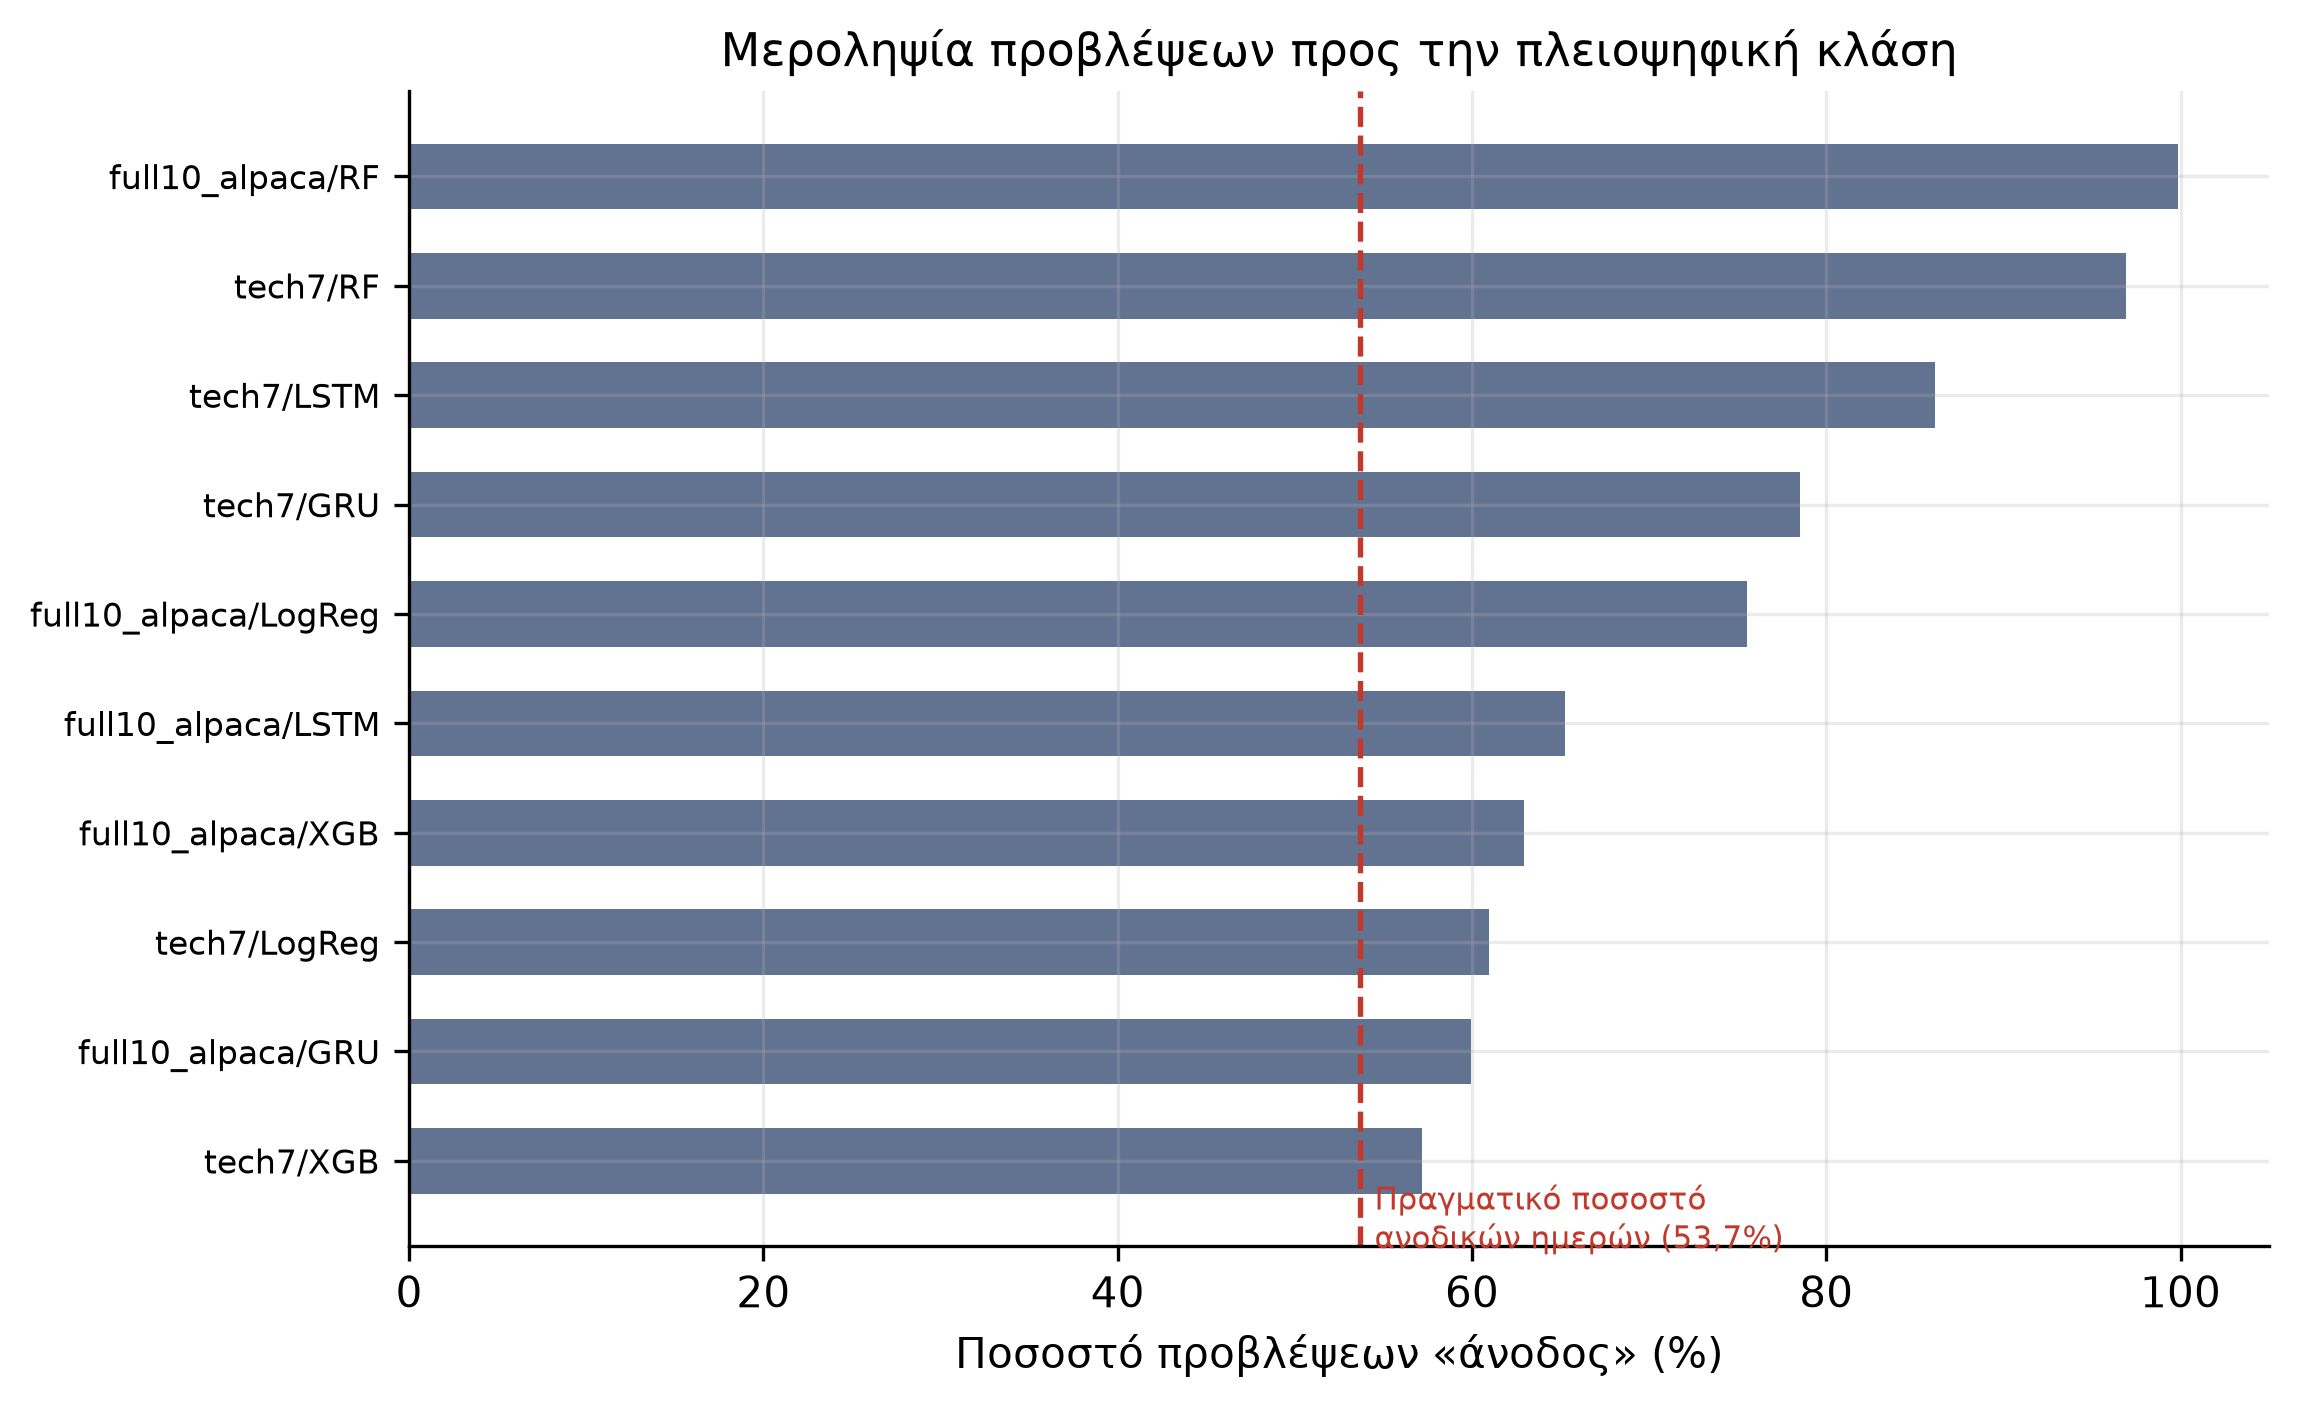
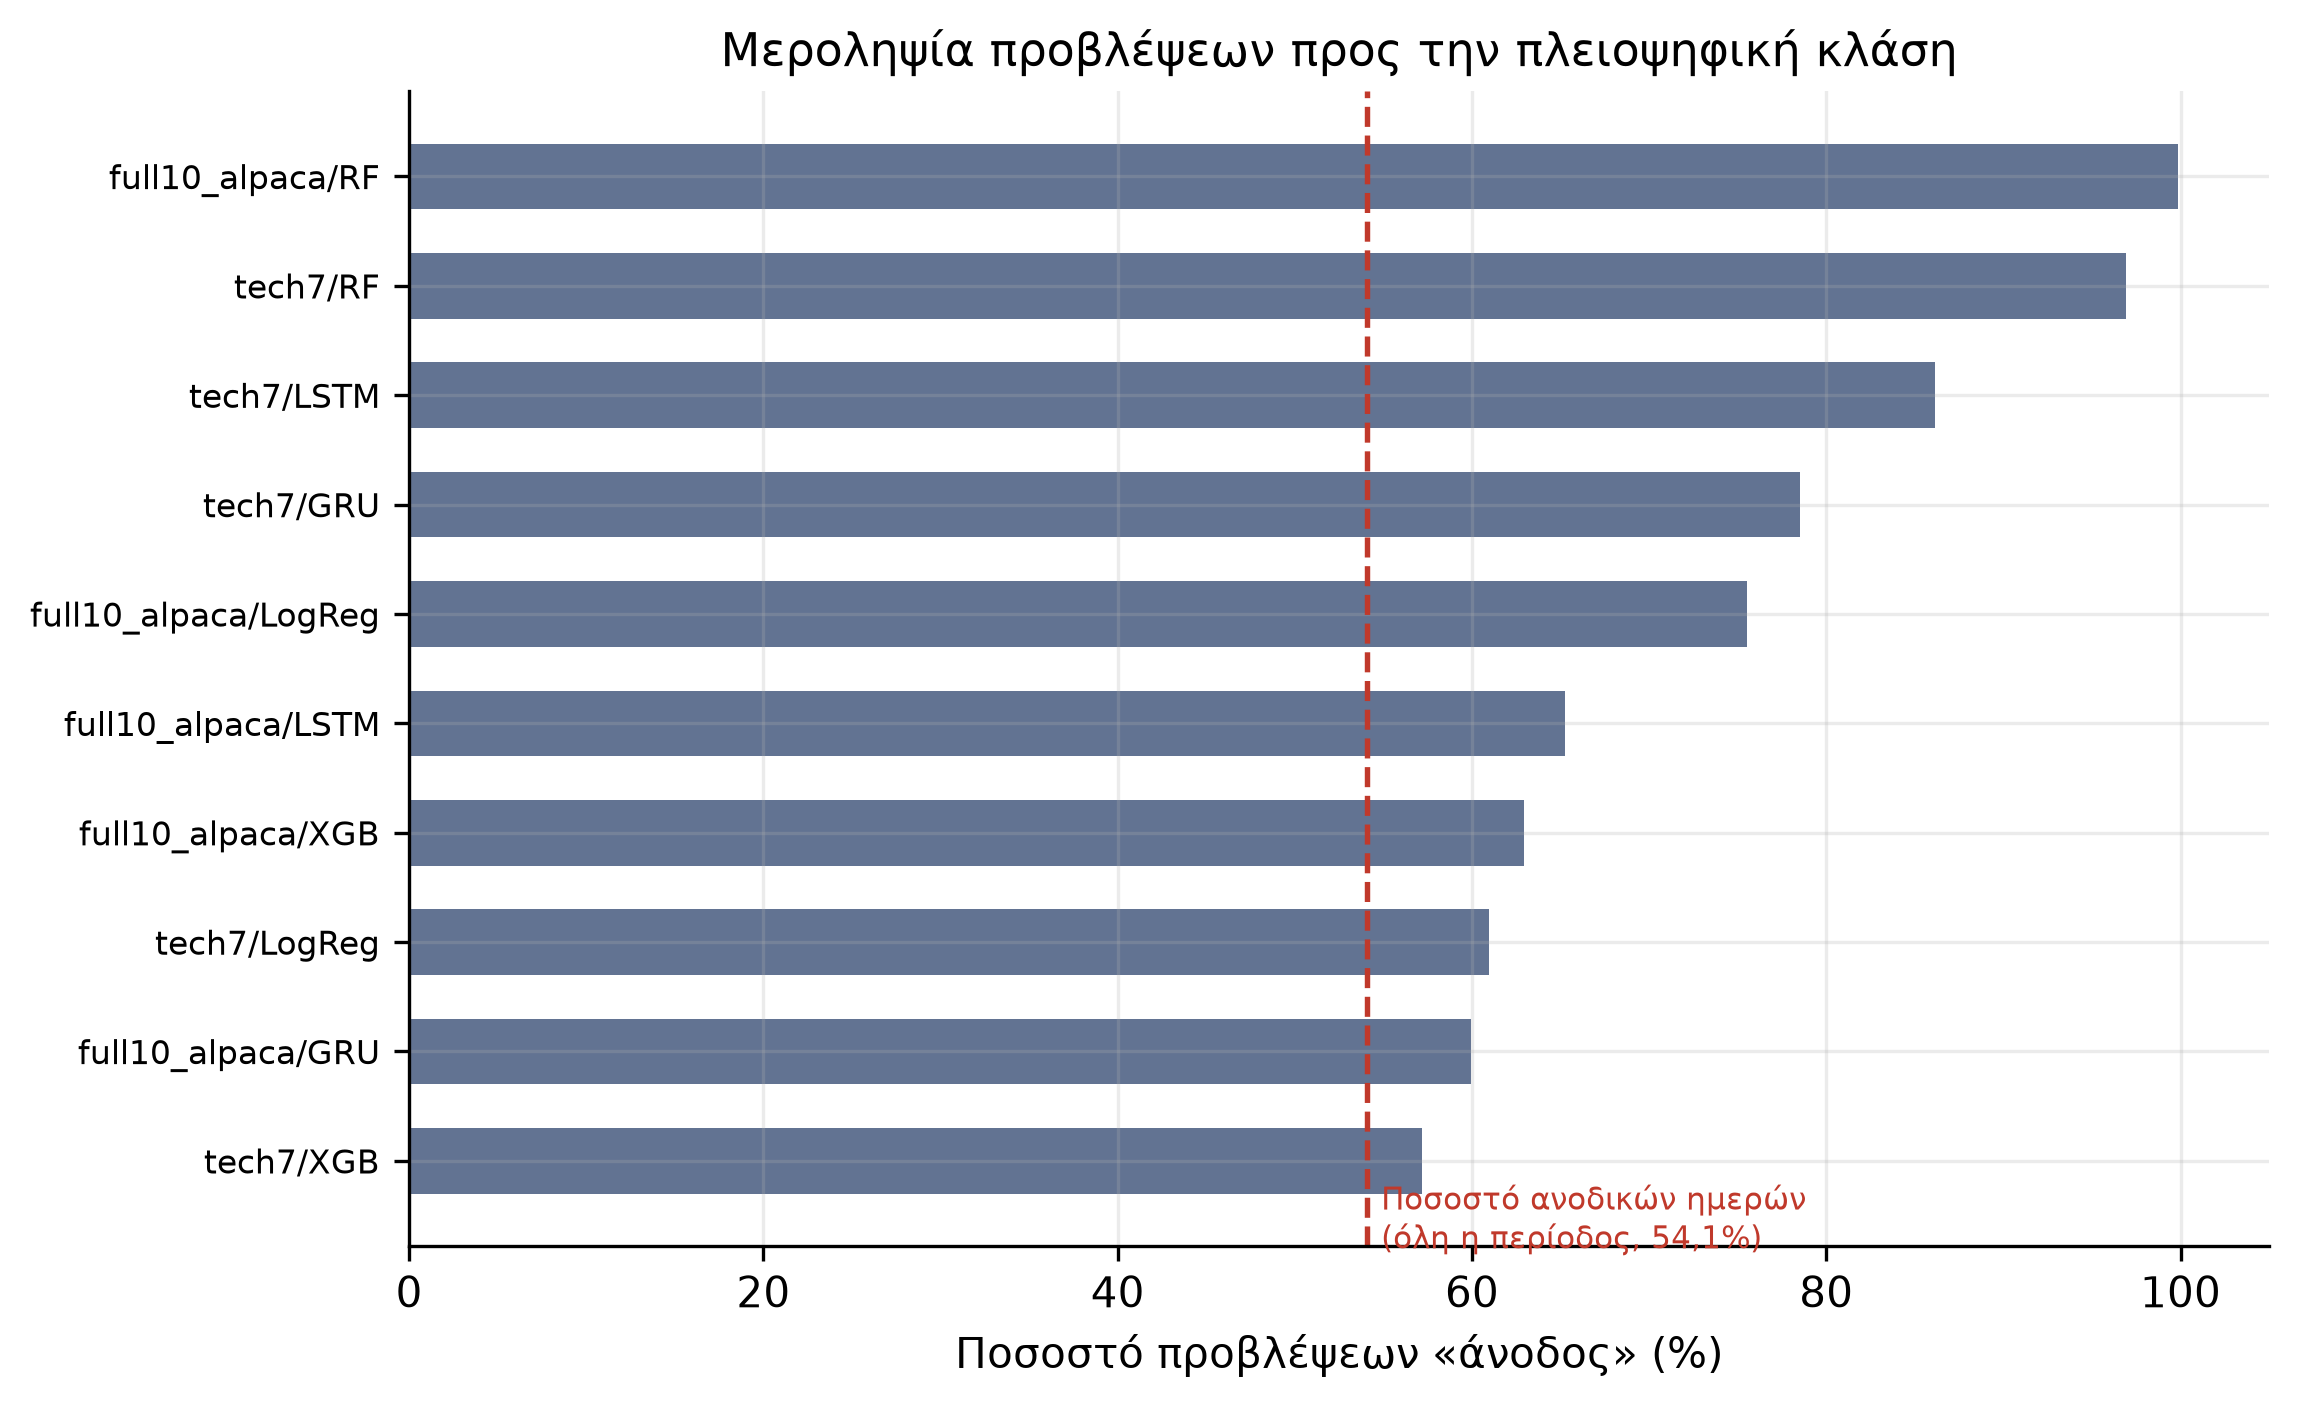
Correct walk-forward summary, clarify fixed hyperparameters, compute up-day share in figure

diff --git a/src/make_figures.py b/src/make_figures.py
@@ -182,9 +182,11 @@ def fig_mode_collapse_bias():
  
     fig, ax = plt.subplots(figsize=(8, 5))
     ax.barh(y, df["pct_up_mean"] * 100, color=NAVY, alpha=0.7, height=0.6)
-    ax.axvline(53.7, color=RED, ls="--", lw=1.3)
-    ax.text(54.5, -0.8, "Πραγματικό ποσοστό\nανοδικών ημερών (53,7%)",
-            fontsize=7.5, color=RED)
+    snap = read("market_snapshot.csv")
+    up = (np.log(snap["Close"]).diff().dropna() > 0).mean() * 100
+    ax.axvline(up, color=RED, ls="--", lw=1.3)
+    ax.text(up + 0.8, -0.8, "Ποσοστό ανοδικών ημερών\n(όλη η περίοδος, "
+            + f"{up:.1f}".replace(".", ",") + "%)", fontsize=7.5, color=RED)
     ax.set_yticks(y); ax.set_yticklabels(labels, fontsize=8)
     ax.set_xlabel("Ποσοστό προβλέψεων «άνοδος» (%)")
     ax.set_title("Μεροληψία προβλέψεων προς την πλειοψηφική κλάση")

diff --git a/src/walk_forward.py b/src/walk_forward.py
@@ -41,8 +41,7 @@ FOLDS = [
     ("2021-12-31", "2023-06-30", "2026-12-31"),   # πρόσφατη
 ]
 
-# Υπερπαράμετροι: παγωμένες από το κύριο pipeline, ΔΕΝ ξανα-συντονίζονται ανά
-# fold (θα ήταν 5x περισσότερες συγκρίσεις και ανεξέλεγκτο data snooping).
+# Υπερπαράμετροι: σταθερές προεπιλογές (όχι οι νικητές του tuning)· δεν ξανα-συντονίζονται ανά fold
 FIXED_PARAMS = {
     "LSTM": {"lookback": 60, "hidden": 64, "dropout": 0.2, "lr": 0.001},
     "GRU":  {"lookback": 60, "hidden": 64, "dropout": 0.2, "lr": 0.001},

diff --git a/README.md b/README.md
@@ -25,7 +25,7 @@
 **Walk-forward επικύρωση:** πέντε διαδοχικά χρονικά παράθυρα (1993–2026),
 συμπεριλαμβανομένων της κρίσης 2008 και του COVID crash. Balanced accuracy
 51.25% ± 1.15 (LSTM) και 50.84% ± 1.38 (GRU). Το buy & hold υπερέχει σε
-Sharpe σε 8/10 περιπτώσεις.
+Sharpe σε 7/10 περιπτώσεις.
 
 ## Δομή
 
